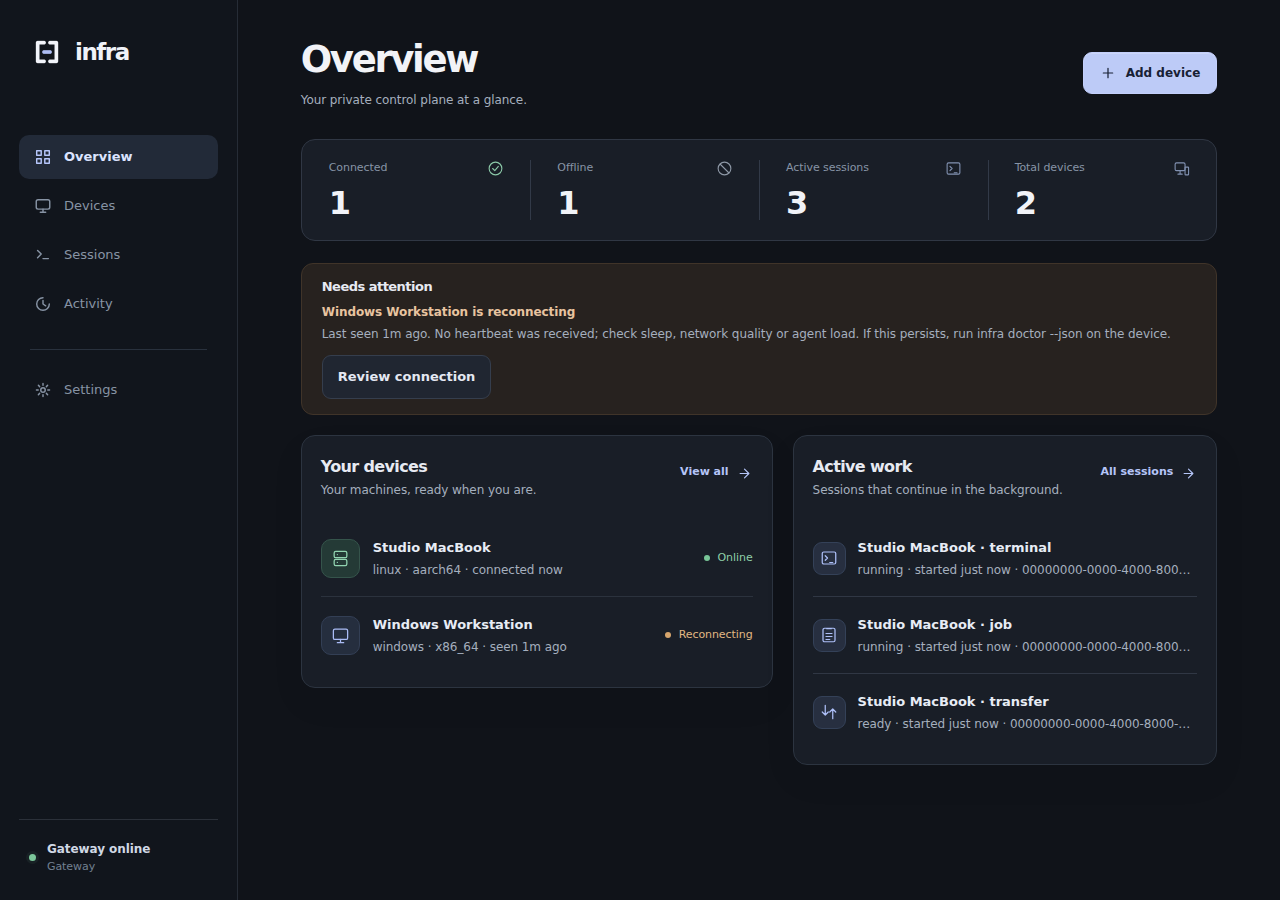
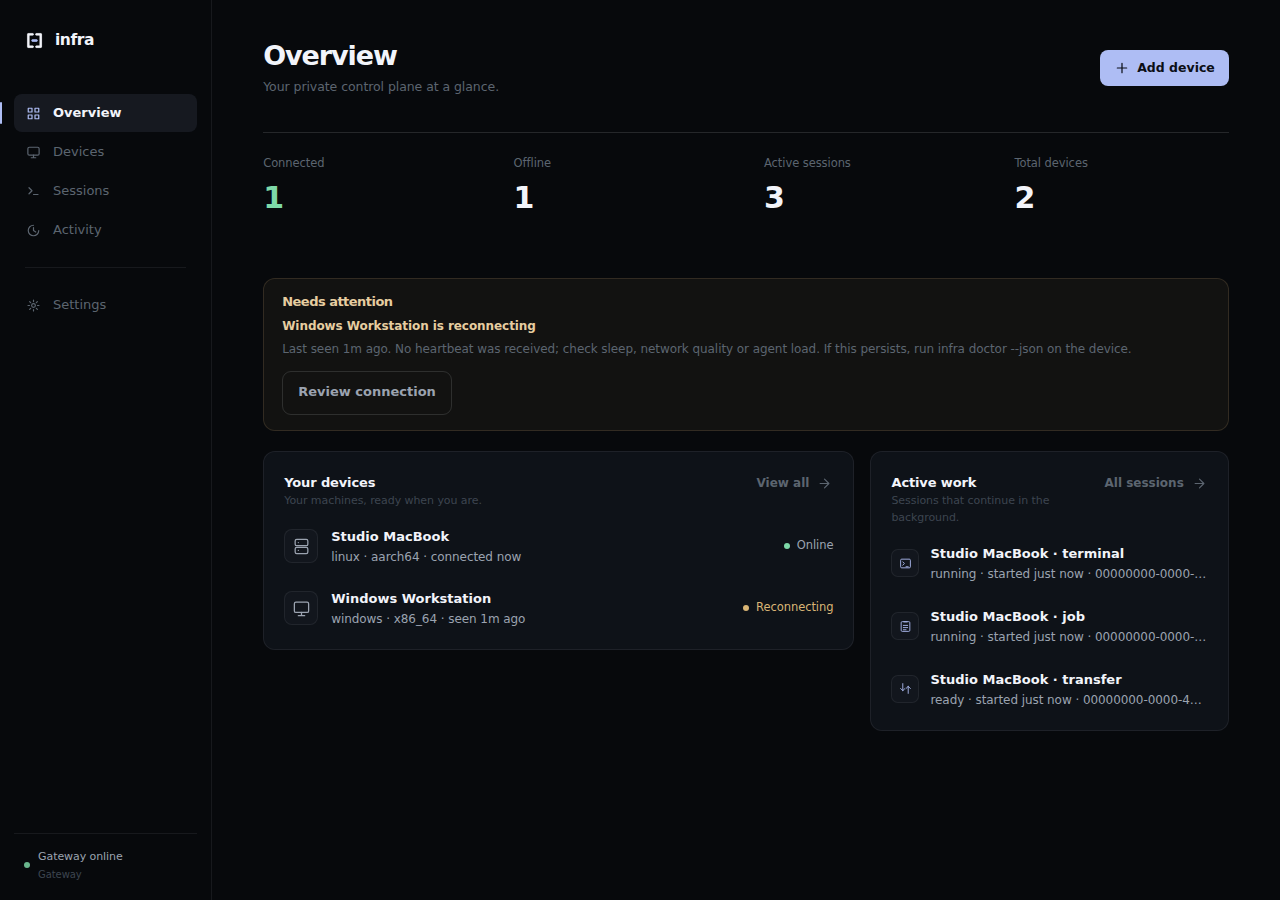
feat(dashboard): apply the v3 design language
Port the approved v3 design (awwwards/dribbble-informed, derived from the real logo palette: off-white F2F4FA brackets + periwinkle AEBDF4 connector on cool near-black) onto the dashboard as a final cascade layer. New sign-in column with a faint logo watermark and underline inputs, blended sidebar with an active-edge accent, baseline overview figures, quiet panels with rounded hover rows, underline device tabs, periwinkle primary, dot+word status, one shared easing. QA browser suite passes; README preview screenshots re-captured from the new UI.

diff --git a/apps/dashboard/styles.css b/apps/dashboard/styles.css
@@ -737,3 +737,298 @@ dialog{overscroll-behavior:contain}
 .signin-showcase h1{letter-spacing:-.035em}
 .overview-devices-panel .device-meta,.overview-sessions-panel .session-meta,.attention-row .session-meta{font-size:12px;color:var(--muted)}
 @media(max-width:650px){.sidebar .nav>span:not(.nav-icon){font-size:11px}.sidebar .nav{font-size:11px!important}}
+/* ==========================================================================
+   Infra v3 design language - final layer (appended).
+   Palette taken from the logo mark (assets/logo.svg): off-white F2F4FA
+   brackets and periwinkle AEBDF4 connector on a cool near-black base.
+   One accent, one easing, status as a dot and a word.
+   ========================================================================== */
+:root{
+  --bg:#07090c;--bg-2:#0a0d11;--surface:#0e1218;--surface-2:#12161d;
+  --ink:#f2f4fa;--ink-2:#9ba3b0;--ink-3:#5c6570;--ink-4:#3d4550;
+  --line:rgba(242,244,250,.07);--line-2:rgba(242,244,250,.13);
+  --accent:#aebdf4;--accent-tint:rgba(174,189,244,.09);--accent-soft:rgba(174,189,244,.07);
+  --good:#7ed9a8;--warning:#d9b575;--danger:#df8b85;
+  --muted:#9ba3b0;--subtle:#5c6570;--sidebar:#07090c;
+  --brand:#aebdf4;--brand-strong:#c6d0f8;
+  --green:#7ed9a8;--amber:#d9b575;--red:#df8b85;
+  --ease:cubic-bezier(.25,1,.4,1);
+  color-scheme:dark;
+  font-family:ui-sans-serif,-apple-system,BlinkMacSystemFont,"Segoe UI Variable Display","Segoe UI",system-ui,sans-serif;
+}
+::selection{background:rgba(174,189,244,.28)}
+html,body{background:var(--bg);color:var(--ink)}
+body{font-size:13.5px;line-height:1.55}
+h1,h2,h3{color:var(--ink);font-weight:640;letter-spacing:-.03em}
+p{color:var(--ink-2)}
+.eyebrow,.page-kicker{color:var(--ink-3)}
+.error{color:var(--red)}
+button:focus-visible,input:focus-visible,select:focus-visible,summary:focus-visible{outline:2px solid var(--brand);outline-offset:3px}
+button:disabled{opacity:.55}
+
+/* Buttons: one periwinkle primary, quiet everything else. */
+.primary{background:var(--brand);color:#0b0e16;border:0;font-weight:620;box-shadow:none;transition:background .18s var(--ease),transform .18s var(--ease)}
+.primary:hover{background:var(--brand-strong);color:#0b0e16}
+.primary:active:not(:disabled){transform:translateY(1px)}
+.secondary{background:none;border:1px solid var(--line-2);color:var(--ink-2);transition:background .15s var(--ease),border-color .15s var(--ease),color .15s var(--ease)}
+.secondary:hover{background:rgba(242,244,250,.03);border-color:rgba(242,244,250,.22);color:var(--ink)}
+.ghost-button,.icon-button{background:none;border:1px solid transparent;color:var(--ink-2)}
+.ghost-button:hover,.icon-button:hover{background:rgba(242,244,250,.035);color:var(--ink)}
+.text-button{color:var(--ink-3);font-weight:560;padding:6px 0}
+.text-button:hover{color:var(--brand)}
+.danger{color:var(--red);border-color:rgba(223,139,133,.32)}
+.danger:hover{background:rgba(223,139,133,.08)}
+label{color:var(--ink-2);font-weight:520}
+
+/* Inputs */
+input,select{background:var(--bg-2);border:1px solid var(--line-2);color:var(--ink);min-height:40px;border-radius:8px;transition:border-color .18s var(--ease)}
+input:focus,select:focus{border-color:var(--brand);box-shadow:0 0 0 3px rgba(174,189,244,.14)}
+input::placeholder{color:var(--ink-4)}
+
+/* Sign-in: one column, one faint mark. */
+.signin{display:flex;flex-direction:column;min-height:100vh;padding:44px 56px;background:var(--bg);position:relative;overflow:hidden}
+.signin::after{content:"";position:absolute;right:-6vw;top:50%;transform:translateY(-50%);width:620px;height:620px;background:url("/assets/logo.png") center/contain no-repeat;opacity:.05;pointer-events:none}
+.signin-showcase{display:none}
+.signin-main{flex:1;display:flex;flex-direction:column;justify-content:center;padding:0;background:none;min-height:0}
+.signin-card{width:min(100%,460px);max-width:460px;margin:auto 0}
+.signin-mobile-brand{display:flex;align-items:center;gap:12px;font-size:17px;font-weight:640;letter-spacing:-.03em;color:var(--ink);margin-bottom:46px}
+.signin-mobile-brand .brand-mark{width:26px;height:26px}
+.signin-kicker{display:none}
+.signin-card h2{font-size:clamp(40px,5vw,62px);font-weight:640;letter-spacing:-.05em;line-height:1.03;margin:0;color:var(--ink)}
+.heading-dot{color:var(--brand)}
+.signin-subtitle{font-size:14.5px;color:var(--ink-2);margin:16px 0 44px;max-width:340px}
+.signin-card form{display:grid;gap:26px}
+.signin-card label{font-size:11.5px;color:var(--ink-3);font-weight:520;gap:2px}
+.signin-card input{background:none;border:0;border-bottom:1px solid var(--line-2);border-radius:0;min-height:38px;padding:9px 0;font-size:15px;color:var(--ink);box-shadow:none}
+.signin-card input:focus{border-color:var(--brand);box-shadow:none}
+.signin-card input::placeholder{color:var(--ink-4)}
+.signin-card .primary{width:auto;justify-self:start;min-height:42px;padding:12px 26px;margin-top:0;border-radius:9px}
+.signin-footnote{display:flex;align-items:center;justify-content:flex-start;gap:9px;font-size:12px;color:var(--ink-3);margin-top:36px;text-align:left}
+#signin-lock{color:var(--ink-3)}
+.signin-bottom{position:static;transform:none;display:flex;justify-content:space-between;width:100%;color:var(--ink-4);font-size:11px;font-family:inherit;letter-spacing:.02em;margin:0;padding:44px 0 0}
+.signin-bottom span:before{color:var(--ink-4)}
+
+/* App frame: the sidebar blends into the page, only a hairline divides it. */
+.shell{grid-template-columns:212px minmax(0,1fr);background:var(--bg)}
+.sidebar{background:var(--bg);border-right:1px solid var(--line);padding:28px 14px 18px}
+.brand{gap:10px;padding:0 10px;margin-bottom:42px;font-size:15.5px;font-weight:640;letter-spacing:-.03em}
+.brand .brand-mark{width:21px;height:21px}
+.brand-wordmark{color:var(--ink)}
+.brand-workspace{margin-left:auto;font-family:ui-monospace,Menlo,Consolas,monospace;font-size:10px;font-weight:480;letter-spacing:.05em;color:var(--ink-3);border:1px solid var(--line-2);border-radius:4px;padding:2.5px 5px;background:rgba(242,244,250,.03)}
+.nav-label{color:var(--ink-4)}
+.sidebar nav{gap:1px}
+.nav{position:relative;min-height:38px;padding:8px 10px;border-radius:8px;gap:10px;font-size:13px;font-weight:530;color:var(--ink-3);transition:color .15s var(--ease),background .15s var(--ease)}
+.nav:hover{color:var(--ink-2);background:rgba(242,244,250,.035)}
+.nav.active{color:var(--ink);background:var(--accent-tint);font-weight:580}
+.nav.active::before{content:"";position:absolute;left:-14px;top:8px;bottom:8px;width:2px;border-radius:2px;background:var(--brand)}
+.nav.active .nav-icon{color:var(--brand)}
+.nav-icon svg{width:15px;height:15px;stroke-width:1.6}
+.nav-divider{background:var(--line);margin:18px 11px}
+.sidebar-foot{margin-top:auto;padding:14px 10px 0;border-top:1px solid var(--line);gap:8px}
+.sidebar-foot .dot{width:6px;height:6px;background:var(--ink-4);box-shadow:none}
+.sidebar-foot .dot.online{background:var(--green);box-shadow:none;animation:infra-pulse 2.8s ease-in-out infinite}
+@keyframes infra-pulse{0%,100%{opacity:1}50%{opacity:.45}}
+.sidebar-foot strong{color:var(--ink-2);font-size:11px;font-weight:540}
+.sidebar-foot div span{color:var(--ink-4);font-size:10px}
+
+/* Content */
+main{max-width:1120px;padding:40px clamp(28px,4vw,64px) 90px}
+.topbar{margin-bottom:36px}
+.title-block h1{font-size:27px;font-weight:640;letter-spacing:-.04em}
+.title-block p{font-size:12.5px;color:var(--ink-3);margin-top:5px}
+#add-device{background:var(--brand);color:#0b0e16;border:0;font-weight:620;font-size:12.5px;min-height:36px;padding:7px 14px;border-radius:8px;gap:7px}
+#add-device:hover{background:var(--brand-strong);color:#0b0e16}
+.button-plus{font-weight:400}
+
+/* Overview: baseline figures, not cards. */
+.overview-intro{margin-bottom:0}
+.overview-greeting{font-size:13px;color:var(--ink-2);font-weight:570}
+.overview-intro p{font-size:12px;color:var(--ink-3);margin-top:3px}
+.overview-availability{border:0;background:none;padding:0;border-radius:0;color:var(--ink-3);font-size:12px}
+.overview-availability.has-offline{color:var(--amber);background:none;border:0}
+.availability-dot{background:var(--green)}
+.has-offline .availability-dot{background:var(--amber)}
+.summary-grid{background:none;border:0;border-top:1px solid var(--line-2);border-radius:0;grid-template-columns:repeat(4,minmax(0,1fr));gap:36px;padding:22px 0 30px;margin:0 0 34px;overflow:visible}
+.summary-card{padding:0;border:0;background:none;border-radius:0}
+.summary-card:first-child{padding-left:0;border:0}
+.summary-card span{font-size:11.5px;color:var(--ink-3)}
+.summary-card strong{font-size:30px;font-weight:600;letter-spacing:-.04em;line-height:1.1;margin-top:8px;color:var(--ink);font-variant-numeric:tabular-nums}
+.summary-card.online strong{color:var(--green)}
+.summary-card .metric-icon{display:none}
+.summary-card.online .metric-icon,.summary-card.offline .metric-icon{display:none}
+
+/* Panels and rows */
+.panel{background:var(--surface);border:1px solid var(--line);border-radius:12px}
+#devices>.panel,#sessions>.panel,#activity>.panel{background:var(--surface);border:1px solid var(--line);border-radius:12px;padding:16px 10px 10px}
+#devices .section-head,#sessions .section-head,#activity .section-head{margin-bottom:4px;padding:0 10px 8px}
+#devices .section-head h2,#sessions .section-head h2,#activity .section-head h2{font-size:15px}
+.section-head h2{color:var(--ink)}
+.section-head p{color:var(--ink-3);font-size:11.5px}
+.overview-stack{grid-template-columns:1.65fr 1fr;gap:16px}
+.overview-stack .panel{background:var(--surface);border:1px solid var(--line);border-radius:12px;padding:14px 10px 10px;box-shadow:none;min-width:0}
+.overview-stack .section-head{margin-bottom:2px;padding:4px 10px;align-items:baseline}
+.overview-stack .section-head h2{font-size:13px;font-weight:620;letter-spacing:-.01em}
+.overview-stack .section-head p{font-size:11px;color:var(--ink-4);margin-top:2px}
+.overview-stack .text-button{padding:0;min-height:0;font-size:12px;color:var(--ink-3)}
+.overview-stack .text-button:hover{color:var(--brand)}
+.overview-stack .device-row{grid-template-columns:minmax(0,1fr) auto;gap:10px;padding:11px 10px;border-bottom:0;border-radius:9px}
+.overview-stack .session-row{grid-template-columns:28px minmax(0,1fr);padding:11px 10px;gap:11px}
+.overview-stack .device-row:hover,.overview-stack .session-row:hover{background:rgba(242,244,250,.035)}
+.overview-stack .device-row:last-child{border-bottom:0}
+.overview-stack .session-row>.pill{display:none}
+.device-table-head{color:var(--ink-4);border-bottom:1px solid var(--line);padding:4px 10px 9px;font-size:11px}
+.device-row{border-bottom:0;border-radius:9px;padding:11px 10px;min-height:0;transition:background .13s var(--ease)}
+.device-row:hover{background:rgba(242,244,250,.035)}
+.device-avatar{width:34px;height:34px;border-radius:8px;background:var(--surface-2);border:1px solid var(--line);color:var(--ink-2)}
+.device-avatar.online{background:var(--surface-2);border-color:var(--line);color:var(--ink-2)}
+.device-link{color:var(--ink);font-weight:570;font-size:13px}
+.device-link:hover{color:var(--brand-strong)}
+.device-meta{color:var(--ink-4);font-size:11px;margin-top:1px}
+.pill{background:none;border:1px solid var(--line-2);color:var(--ink-2);border-radius:6px;padding:4px 10px;font-size:11px;font-weight:480}
+.pill.more{color:var(--brand);border-color:rgba(174,189,244,.3);background:var(--accent-soft)}
+.work-count{color:var(--ink-3)}
+.status{color:var(--ink-2);font-size:11.5px}
+.status:before{background:var(--ink-4);width:6px;height:6px;margin-right:7px}
+.status.online{color:var(--ink-2)}
+.status.online:before{background:var(--green)}
+.status.reconnecting{color:var(--amber)}
+.status.reconnecting:before{background:var(--amber)}
+.status.offline,.status.revoked{color:var(--ink-3)}
+.status.offline:before,.status.revoked:before{background:var(--ink-4)}
+.session-row{border-bottom:0;border-radius:9px;padding:11px 10px;transition:background .13s var(--ease)}
+.session-row:hover{background:rgba(242,244,250,.035)}
+.session-kind-icon{width:28px;height:28px;border-radius:7px;background:var(--surface-2);border:1px solid var(--line);color:var(--brand)}
+.session-kind-icon .ui-icon{width:13px;height:13px}
+.session-title{color:var(--ink);font-weight:570;font-size:12.5px}
+.session-meta{color:var(--ink-4);font-size:11px;margin-top:1px}
+.activity-row{border-bottom:0;border-radius:9px;padding:11px 10px}
+.activity-row:hover{background:rgba(242,244,250,.035)}
+.activity-dot{background:var(--ink-4);margin-top:6px}
+.activity-dot.ok{background:var(--green)}
+.activity-dot.failed{background:var(--red)}
+.empty{background:var(--surface-2);border:1px solid var(--line-2);border-radius:12px;color:var(--ink-3)}
+.empty .ui-icon{color:var(--ink-4)}
+.filters label{color:var(--ink-3)}
+.device-search-label input{background:var(--bg-2)}
+.search-icon{color:var(--ink-4)}
+
+/* Attention: one quiet amber note. */
+.attention-panel{background:rgba(217,181,117,.05);border:1px solid rgba(217,181,117,.16);border-radius:12px;padding:15px 18px;margin:0 0 20px}
+.attention-panel h2{color:#e6cda0;font-size:13px;font-weight:600}
+.attention-panel .section-head{margin-bottom:8px}
+.attention-row+.attention-row{border-top:1px solid rgba(217,181,117,.12);margin-top:12px;padding-top:12px}
+.attention-row .session-title{color:#e6cda0}
+.attention-row .session-meta{color:var(--ink-3)}
+
+/* Device detail */
+.back{color:var(--ink-3);font-size:12px}
+.back:hover{color:var(--ink)}
+#device-summary{background:none;border:0;border-bottom:1px solid var(--line);border-radius:0;padding:0 0 20px;margin-bottom:26px}
+.device-hero-avatar{width:48px;height:48px;border-radius:11px;background:var(--surface-2);border:1px solid var(--line);color:var(--ink-2);font-size:17px}
+.device-hero-avatar.online{background:var(--surface-2);color:var(--ink-2)}
+.device-hero-copy h2{font-size:22px;font-weight:640;letter-spacing:-.03em}
+.device-hero-copy p{font-size:12px;color:var(--ink-3);margin-top:3px}
+.device-metric span{color:var(--ink-3);font-size:11.5px;margin-bottom:6px}
+.device-metric strong,.device-metric code{color:var(--ink-2)}
+.device-metrics{margin-top:20px}
+
+/* Tabs: text with an underline, no chips. */
+.device-tabs{gap:22px;border-bottom:1px solid var(--line);padding:0;margin:26px 0 28px;position:relative}
+.device-tabs .tab{background:none;border:0;border-radius:0;padding:0 1px 11px;font-size:13px;font-weight:560;color:var(--ink-3);position:relative;transition:color .15s var(--ease)}
+.device-tabs .tab:hover{color:var(--ink-2);background:none}
+.device-tabs .tab.active{color:var(--ink);background:none}
+.device-tabs .tab.active::after{content:"";position:absolute;left:0;right:0;bottom:-1px;height:2px;border-radius:2px;background:var(--brand)}
+
+/* Capability and health surfaces */
+.capability-grid{gap:12px}
+.capability-card{background:var(--surface-2);border:1px solid var(--line);border-radius:11px;padding:17px}
+.capability-card .cap-icon{width:28px;height:28px;border-radius:7px;background:var(--surface);border:1px solid var(--line);color:var(--brand);margin-bottom:8px}
+.capability-card.available .cap-icon{background:rgba(126,217,168,.1);border-color:rgba(126,217,168,.2);color:var(--green)}
+.capability-card.available:after{background:var(--green)}
+.capability-card strong{color:var(--ink)}
+.capability-card p{color:var(--ink-3)}
+.connection-health{background:rgba(126,217,168,.05);border:1px solid rgba(126,217,168,.18);border-radius:12px}
+.connection-health h2{color:var(--ink)}
+.connection-health p{color:var(--ink-2)}
+.connection-health.verified{background:rgba(126,217,168,.07);border-color:rgba(126,217,168,.25)}
+.connection-health.verified h2{color:#b3e5c9}
+#pair-result.pair-verified{background:rgba(126,217,168,.06);border:1px solid rgba(126,217,168,.25);color:var(--green)}
+.diagnostics{color:var(--ink-3)}
+.permission-result{color:var(--ink)}
+.first-device>.ui-icon{color:var(--brand)}
+.rename-form{background:var(--surface-2);border:1px solid var(--line-2);border-radius:11px}
+.status-output,.file-preview pre{background:#05070a;border:1px solid var(--line);color:var(--ink-2)}
+
+/* Terminal and files */
+.session-workspace{background:var(--surface);border:1px solid var(--line);border-radius:12px}
+.session-workspace-head h2{color:var(--ink)}
+.terminal-toolbar{background:none;border-top:1px solid var(--line);border-bottom:1px solid var(--line)}
+.terminal-toolbar-label{color:var(--ink-4)}
+#terminal-screen,#session-output{background:#05070a}
+#session-output{color:var(--ink-2)}
+.file-table-head{color:var(--ink-4);border-bottom:1px solid var(--line);padding:4px 10px 9px}
+.file-row{border-bottom:0;border-radius:9px;padding:11px 10px;transition:background .13s var(--ease)}
+.file-row:hover{background:rgba(242,244,250,.035)}
+.file-row>span:last-child{color:var(--ink-4)}
+.file-row .device-link .ui-icon{color:var(--ink-3)}
+.file-row .device-link[data-file-kind="directory"] .ui-icon{color:var(--green)}
+
+/* Settings */
+.settings-card{background:var(--surface);border:1px solid var(--line);border-radius:12px;padding:24px}
+.auth-chip{color:var(--ink-3)}
+.security-dot{background:var(--green)}
+
+/* Dialogs */
+dialog{background:var(--surface-2);border:1px solid var(--line-2);border-radius:13px;box-shadow:0 40px 90px -24px rgba(0,0,0,.8)}
+dialog::backdrop{background:rgba(4,6,10,.65);backdrop-filter:blur(7px);-webkit-backdrop-filter:blur(7px)}
+.dialog-card{padding:28px}
+.dialog-head h2{color:var(--ink)}
+.pair-approval{border-bottom:1px solid var(--line)}
+.pending-pair{background:var(--surface);border:1px solid var(--line)}
+.pending-code strong{color:var(--brand-strong)}
+.legacy-enrollment summary{color:var(--ink-3)}
+.legacy-enrollment summary:hover{color:var(--brand)}
+.code-box{background:var(--surface);border:1px solid var(--line)}
+.platform-tabs{gap:6px}
+.platform-tabs .tab{background:none;border:1px solid var(--line-2);border-radius:6px;color:var(--ink-3);padding:5px 12px}
+.platform-tabs .tab:hover{color:var(--ink-2);background:none}
+.platform-tabs .tab.active{background:var(--accent-soft);border-color:rgba(174,189,244,.3);color:var(--brand)}
+.command-wrap pre{background:#05070a;border:1px solid var(--line);color:var(--ink-2)}
+.subsection-head{color:var(--ink-3)}
+.quick-install{border-bottom:1px solid var(--line)}
+
+/* Responsive, restated for the new frame. */
+@media(max-width:1060px){.overview-stack{grid-template-columns:1fr;gap:14px}}
+@media(max-width:900px){
+  .sidebar{padding:27px 8px}
+  .brand{padding:0;justify-content:center;margin-bottom:48px}
+  .nav{justify-content:center}
+  .nav.active::before{display:none}
+  main{padding:36px 32px 70px}
+  .topbar{margin-bottom:32px}
+  .signin{padding:32px 24px}
+  .signin::after{display:none}
+  .signin-card h2{font-size:40px}
+}
+@media(max-width:650px){
+  main{padding:24px 18px 60px}
+  .topbar{margin-bottom:24px}
+  .title-block h1{font-size:26px}
+  #add-device{padding:8px 11px;min-width:40px;min-height:40px;font-size:0;gap:0}
+  .sidebar{padding:10px 12px 8px}
+  .summary-grid{grid-template-columns:repeat(2,minmax(0,1fr));gap:8px 24px;padding:16px 0 20px;border:0;border-top:1px solid var(--line-2)}
+  .summary-card,.summary-card:first-child,.summary-card:nth-child(2),.summary-card:nth-child(3),.summary-card:nth-child(4){border:0;padding:14px 0 0;background:none}
+  .summary-card strong{font-size:26px;margin-top:6px}
+  .overview-stack .panel{padding:12px 8px 8px}
+  #devices>.panel,#sessions>.panel,#activity>.panel{padding:14px 8px 8px}
+  #devices .section-head,#sessions .section-head,#activity .section-head{padding:0 8px 6px}
+  .device-tabs{gap:14px;margin:20px 0 22px}
+  .device-tabs .tab{padding:0 1px 9px;font-size:12px}
+  .overview-intro{align-items:flex-start}
+  .overview-availability{font-size:10px}
+}
+/* v3 polish: specificity fixes over earlier layers. */
+.dialog-card{background:none}
+dialog,.dialog-card{color:var(--ink)}
+.overview-stack .section-head h2{color:var(--ink)}
+.signin-footnote #signin-lock{color:var(--ink-3)}

diff --git a/apps/dashboard/index.html b/apps/dashboard/index.html
@@ -5,7 +5,7 @@
   <meta name="viewport" content="width=device-width,initial-scale=1">
   <meta name="color-scheme" content="dark">
   <title>Infra</title>
-  <meta name="theme-color" content="#101312">
+  <meta name="theme-color" content="#07090c">
   <link rel="icon" href="/favicon.ico" sizes="any">
   <link rel="icon" href="/favicon.png" type="image/png">
   <link rel="apple-touch-icon" href="/apple-touch-icon.png">
